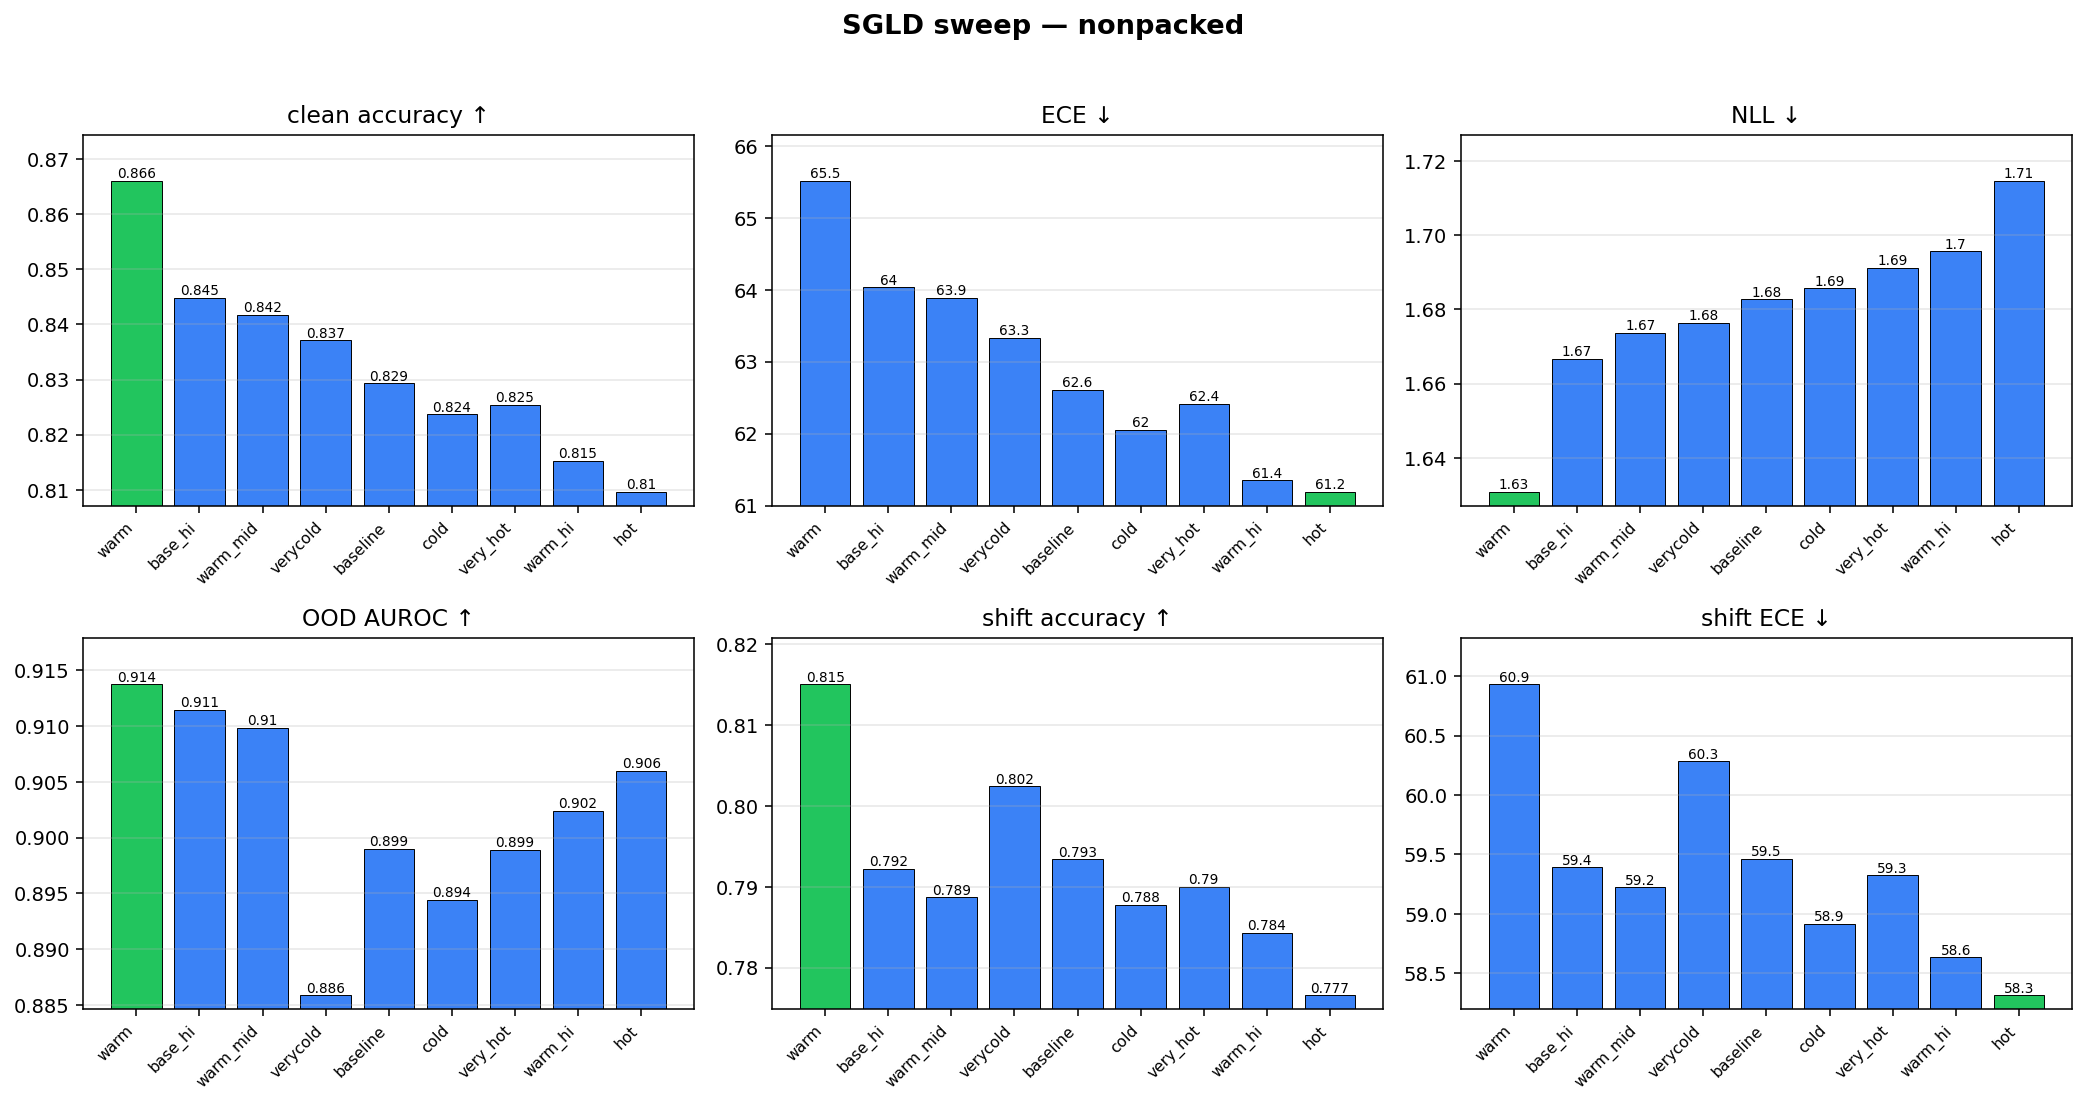
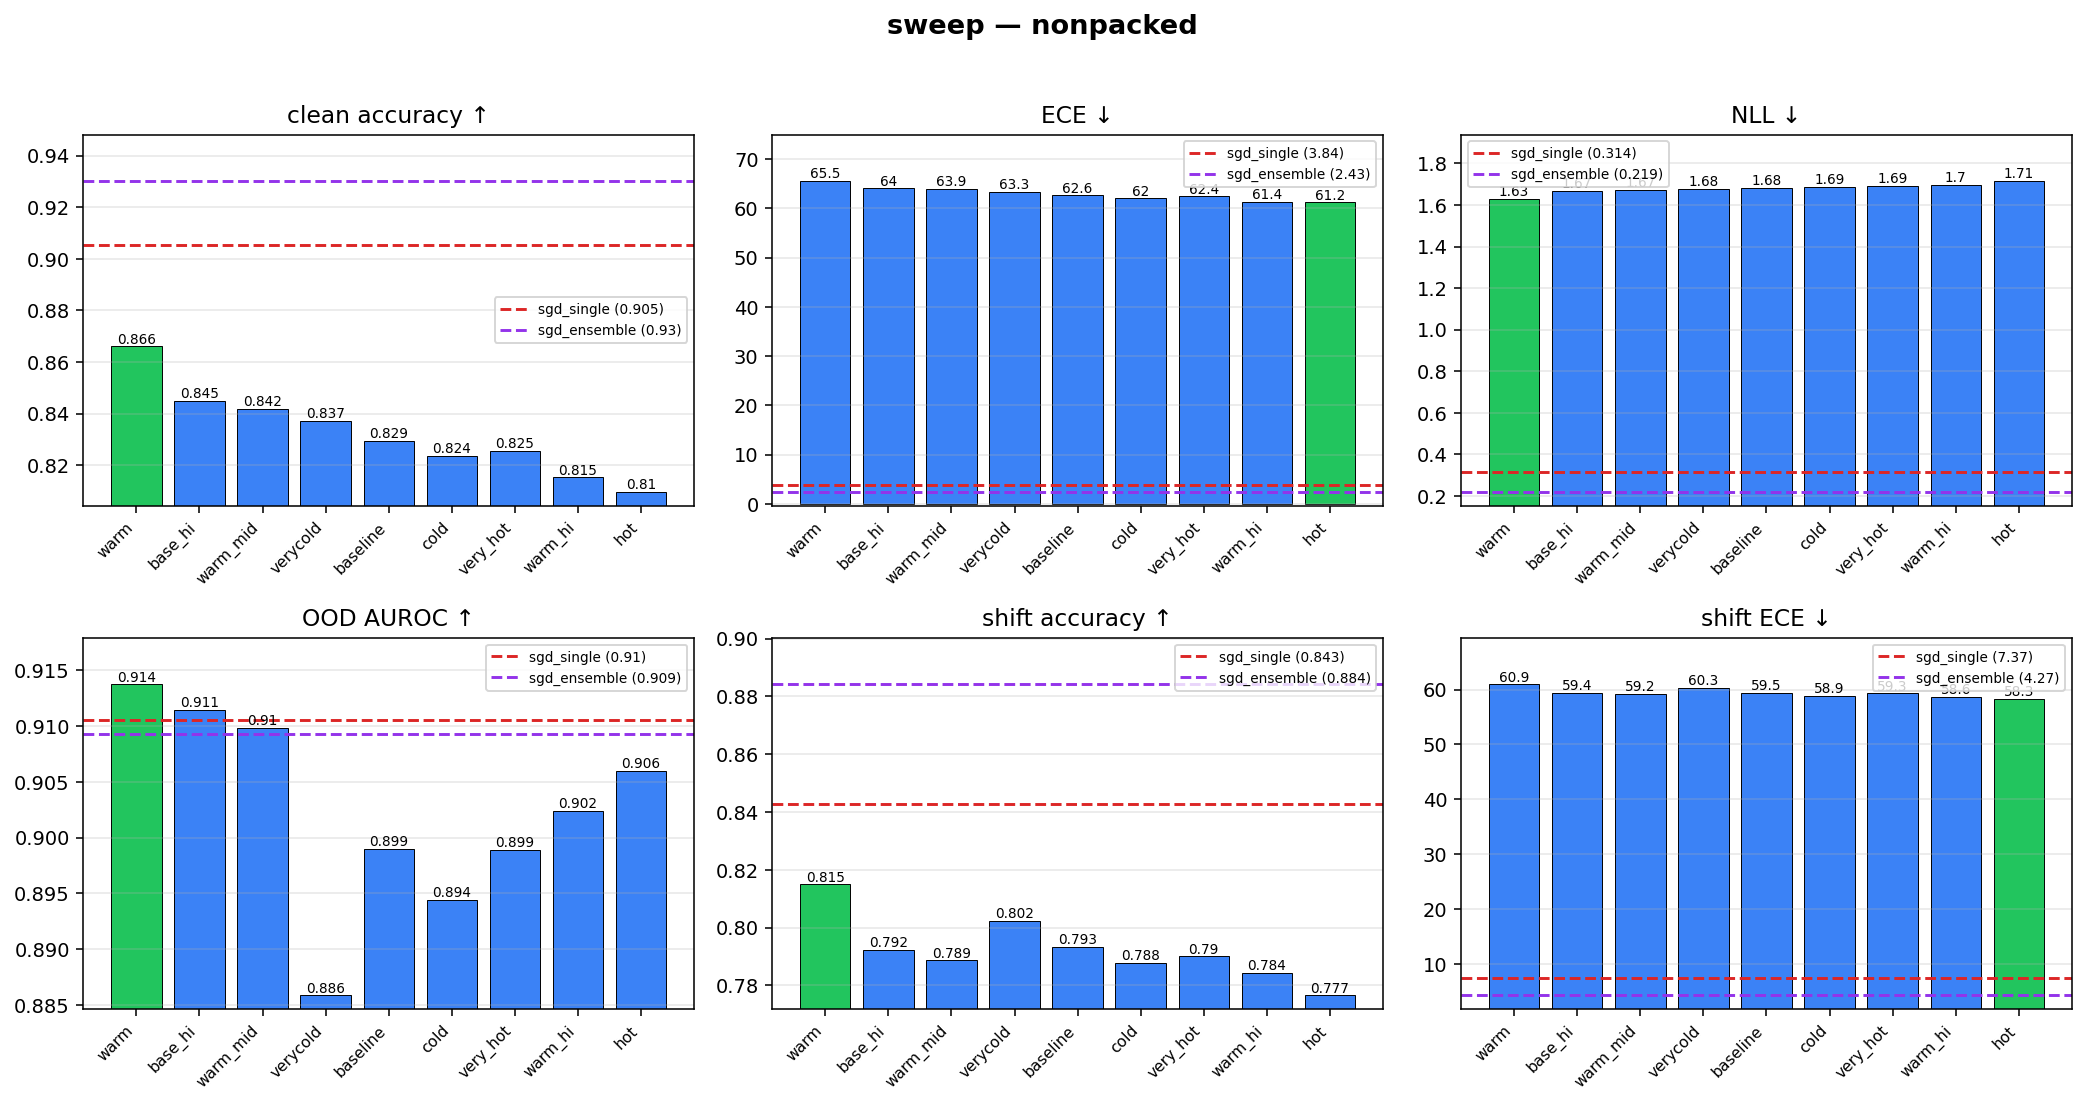
hlksdf

diff --git a/plot_sweep.py b/plot_sweep.py
@@ -36,38 +36,57 @@ def _load(path):
     return df
 
 
-def plot_metric_bars(df, variant, outpath):
+BASELINE_COLORS = ["#dc2626", "#9333ea", "#0891b2"]
+
+
+def _split_baselines(df, variant):
     sub = df[df["variant"] == variant].copy()
-    if sub.empty:
+    is_bl = sub["config"].astype(str).str.startswith("sgd")
+    return sub[~is_bl].copy(), sub[is_bl].copy()
+
+
+def plot_metric_bars(df, variant, outpath):
+    sgld, baselines = _split_baselines(df, variant)
+    if sgld.empty and baselines.empty:
         return
-    # order configs by NLL asc so best-first
-    sub = sub.sort_values("nll", ascending=True).reset_index(drop=True)
+    # order SGLD configs by NLL asc so best-first
+    sgld = sgld.sort_values("nll", ascending=True).reset_index(drop=True)
 
     fig, axes = plt.subplots(2, 3, figsize=(15, 8))
-    fig.suptitle(f"SGLD sweep — {variant}", fontsize=14, fontweight="bold")
+    fig.suptitle(f"sweep — {variant}", fontsize=14, fontweight="bold")
 
     for ax, (col, label, higher_is_better) in zip(axes.flat, METRICS):
-        vals = sub[col].values
-        configs = sub["config"].values
-        best_idx = int(np.argmax(vals) if higher_is_better else np.argmin(vals))
-        colors = ["#3b82f6"] * len(vals)
-        colors[best_idx] = "#22c55e"
+        vals = sgld[col].values
+        configs = sgld["config"].values
+        if len(vals):
+            best_idx = int(np.argmax(vals) if higher_is_better else np.argmin(vals))
+            colors = ["#3b82f6"] * len(vals)
+            colors[best_idx] = "#22c55e"
+            bars = ax.bar(range(len(vals)), vals, color=colors, edgecolor="black", linewidth=0.5)
+            ax.set_xticks(range(len(vals)))
+            ax.set_xticklabels(configs, rotation=45, ha="right", fontsize=8)
+            for bar, v in zip(bars, vals):
+                if np.isfinite(v):
+                    ax.text(bar.get_x() + bar.get_width() / 2, bar.get_height(),
+                            f"{v:.3g}", ha="center", va="bottom", fontsize=7)
 
-        bars = ax.bar(range(len(vals)), vals, color=colors, edgecolor="black", linewidth=0.5)
-        ax.set_xticks(range(len(vals)))
-        ax.set_xticklabels(configs, rotation=45, ha="right", fontsize=8)
+        # dashed horizontal lines for SGD baselines in this variant
+        for i, (_, br) in enumerate(baselines.iterrows()):
+            v = br[col]
+            if np.isfinite(v):
+                c = BASELINE_COLORS[i % len(BASELINE_COLORS)]
+                ax.axhline(v, color=c, linestyle="--", linewidth=1.5,
+                           label=f"{br['config']} ({v:.3g})")
+
         arrow = "↑" if higher_is_better else "↓"
         ax.set_title(f"{label} {arrow}")
         ax.grid(axis="y", alpha=0.3)
+        if len(baselines):
+            ax.legend(fontsize=7, loc="best")
 
-        # annotate values
-        for bar, v in zip(bars, vals):
-            if np.isfinite(v):
-                ax.text(bar.get_x() + bar.get_width() / 2, bar.get_height(),
-                        f"{v:.3g}", ha="center", va="bottom", fontsize=7)
-
-        # ylim so annotations don't clip
-        finite = vals[np.isfinite(vals)]
+        # ylim must include baselines too so lines are visible
+        all_vals = np.concatenate([vals, baselines[col].values]) if len(baselines) else vals
+        finite = all_vals[np.isfinite(all_vals)]
         if len(finite):
             lo, hi = finite.min(), finite.max()
             margin = (hi - lo) * 0.15 or abs(hi) * 0.05 or 1.0
@@ -80,7 +99,8 @@ def plot_metric_bars(df, variant, outpath):
 
 
 def plot_heatmap(df, variant, metric, outpath, higher_is_better=False):
-    sub = df[df["variant"] == variant].copy()
+    sub = df[(df["variant"] == variant) &
+             (~df["config"].astype(str).str.startswith("sgd"))].copy()
     if sub.empty or sub[metric].isna().all():
         return
     pivot = sub.pivot_table(index="temperature", columns="sampling_lr",
@@ -115,15 +135,18 @@ def plot_heatmap(df, variant, metric, outpath, higher_is_better=False):
 
 
 def plot_variant_compare(df, outpath):
-    """Side-by-side bar chart comparing nonpacked vs packed on each metric."""
-    variants = sorted(df["variant"].unique())
+    """Grouped-bar comparison of SGLD nonpacked vs packed, SGD baselines overlaid."""
+    sgld = df[~df["config"].astype(str).str.startswith("sgd")].copy()
+    baselines = df[df["config"].astype(str).str.startswith("sgd")].copy()
+    variants = sorted(sgld["variant"].unique())
     if len(variants) < 2:
         return
-    configs = sorted(df["config"].unique(),
-                     key=lambda c: df.loc[df["config"] == c, "nll"].mean())
+    configs = sorted(sgld["config"].unique(),
+                     key=lambda c: sgld.loc[sgld["config"] == c, "nll"].mean())
 
     fig, axes = plt.subplots(2, 3, figsize=(15, 8))
-    fig.suptitle("nonpacked vs packed", fontsize=14, fontweight="bold")
+    fig.suptitle("SGLD nonpacked vs packed (SGD baselines dashed)",
+                 fontsize=14, fontweight="bold")
 
     width = 0.4
     x = np.arange(len(configs))
@@ -131,17 +154,23 @@ def plot_variant_compare(df, outpath):
 
     for ax, (col, label, higher_is_better) in zip(axes.flat, METRICS):
         for i, v in enumerate(variants):
-            sub = df[df["variant"] == v].set_index("config").reindex(configs)
+            sub = sgld[sgld["variant"] == v].set_index("config").reindex(configs)
             vals = sub[col].values
             offset = (i - (len(variants) - 1) / 2) * width
             ax.bar(x + offset, vals, width, label=v,
                    color=palette.get(v, None), edgecolor="black", linewidth=0.4)
+        for i, (_, br) in enumerate(baselines.iterrows()):
+            v = br[col]
+            if np.isfinite(v):
+                c = BASELINE_COLORS[i % len(BASELINE_COLORS)]
+                ax.axhline(v, color=c, linestyle="--", linewidth=1.3,
+                           label=f"{br['config']} ({v:.3g})")
         ax.set_xticks(x)
         ax.set_xticklabels(configs, rotation=45, ha="right", fontsize=8)
         arrow = "↑" if higher_is_better else "↓"
         ax.set_title(f"{label} {arrow}")
         ax.grid(axis="y", alpha=0.3)
-        ax.legend(fontsize=8)
+        ax.legend(fontsize=7)
 
     plt.tight_layout(rect=[0, 0, 1, 0.96])
     plt.savefig(outpath, dpi=140, bbox_inches="tight")

diff --git a/show_sweep.py b/show_sweep.py
@@ -57,6 +57,10 @@ def format_row(row, col_widths, cols):
     return "  ".join(parts)
 
 
+def is_baseline(row):
+    return str(row.get("config", "")).startswith("sgd")
+
+
 def print_variant(variant, rows, sort_key):
     if not rows:
         return
@@ -68,16 +72,23 @@ def print_variant(variant, rows, sort_key):
         for h, *_ in HPARAMS:
             r[h] = parse_float(r.get(h))
 
+    baselines = [r for r in rows if is_baseline(r)]
+    sgld = [r for r in rows if not is_baseline(r)]
+
     # sort direction: NLL down (lower better) unless overridden
     if sort_key == "acc":
-        rows.sort(key=lambda r: -(r["clean_accuracy"] or -1))
+        key_fn = lambda r: -(r["clean_accuracy"] or -1)
     elif sort_key == "ece":
-        rows.sort(key=lambda r: (r["ECE"] if r["ECE"] is not None else 1e9))
-    else:  # "nll"
-        rows.sort(key=lambda r: (r["nll"] if r["nll"] is not None else 1e9))
+        key_fn = lambda r: (r["ECE"] if r["ECE"] is not None else 1e9)
+    else:
+        key_fn = lambda r: (r["nll"] if r["nll"] is not None else 1e9)
+    sgld.sort(key=key_fn)
+    baselines.sort(key=key_fn)
+    rows = baselines + sgld
 
     print("\n" + "=" * 100)
-    print(f"{variant.upper()}  ({len(rows)} configs, sorted by {sort_key})")
+    print(f"{variant.upper()}  ({len(rows)} rows: {len(baselines)} SGD baseline(s) + "
+          f"{len(sgld)} SGLD configs, sorted by {sort_key})")
     print("=" * 100)
 
     # header
@@ -109,18 +120,35 @@ def print_variant(variant, rows, sort_key):
     header = "  ".join(labels[n].rjust(col_widths[n]) for n, _ in cols)
     print(header)
     print("-" * len(header))
-    for r in rows:
+    for r in baselines:
+        print(format_row(r, col_widths, cols))
+    if baselines and sgld:
+        print("-" * len(header))
+    for r in sgld:
         print(format_row(r, col_widths, cols))
 
-    # best config per metric
-    print("\n  Best per metric:")
-    for m, alias, up, fmt in METRICS:
-        vals = [(r[m], r["config"]) for r in rows if r[m] is not None]
+    # best per metric — SGLD and baselines reported separately
+    def _best(rs, m, up):
+        vals = [(r[m], r["config"]) for r in rs if r[m] is not None]
         if not vals:
-            continue
-        best = max(vals) if up else min(vals)
-        arrow = "↑" if up else "↓"
-        print(f"    {alias+arrow:8s}  {fmt.format(best[0])}   ({best[1]})")
+            return None
+        return max(vals) if up else min(vals)
+
+    if sgld:
+        print("\n  Best SGLD per metric:")
+        for m, alias, up, fmt in METRICS:
+            b = _best(sgld, m, up)
+            if b:
+                arrow = "↑" if up else "↓"
+                print(f"    {alias+arrow:8s}  {fmt.format(b[0])}   ({b[1]})")
+    if baselines:
+        print("\n  SGD baselines:")
+        for r in baselines:
+            cells = []
+            for m, alias, up, fmt in METRICS:
+                if r[m] is not None:
+                    cells.append(f"{alias}={fmt.format(r[m])}")
+            print(f"    {r['config']:14s}  " + "  ".join(cells))
 
 
 def main():

diff --git a/add_sgd_baselines.py b/add_sgd_baselines.py
@@ -1,0 +1,90 @@
+#!/usr/bin/env python3
+"""Append SGD baseline rows to sweep_sgld_results.csv.
+
+Reads three evaluation JSONs produced by run_sgd_eval.sh and appends them
+as rows with empty hyperparameter columns. Idempotent — skips any
+(config, variant) pair that already appears in the CSV.
+"""
+
+import csv
+import json
+import os
+import sys
+
+CSV_PATH = "sweep_sgld_results.csv"
+METRICS_DIR = "experiment_results/table_metrics"
+
+# config name, variant tag, json file
+BASELINES = [
+    ("sgd_single",   "nonpacked", "resnet20_cifar10_sgd.json"),
+    ("sgd_ensemble", "nonpacked", "resnet20_cifar10_sgd_ensemble.json"),
+    ("sgd_packed",   "packed",    "resnet20_cifar10_sgd_packed.json"),
+]
+
+EVAL_METRICS = ["clean_accuracy", "ECE", "nll",
+                "OOD AUROC", "SHIFT ACCURACY", "SHIFT ECE"]
+
+
+def load_metrics(path):
+    with open(path) as f:
+        data = json.load(f)
+    return next(iter(data.values()))
+
+
+def main():
+    if not os.path.exists(CSV_PATH):
+        sys.exit(f"[error] CSV not found: {CSV_PATH}")
+
+    with open(CSV_PATH) as f:
+        rows = list(csv.DictReader(f))
+        fieldnames = rows[0].keys() if rows else []
+
+    if not fieldnames:
+        sys.exit("[error] CSV is empty / has no header")
+
+    existing = {(r["config"], r["variant"]) for r in rows}
+
+    new_rows = []
+    for config, variant, json_name in BASELINES:
+        if (config, variant) in existing:
+            print(f"[skip] already present: {config} / {variant}")
+            continue
+        json_path = os.path.join(METRICS_DIR, json_name)
+        if not os.path.exists(json_path):
+            print(f"[warn] missing eval JSON: {json_path} — did you run run_sgd_eval.sh?")
+            continue
+        m = load_metrics(json_path)
+        row = {k: "" for k in fieldnames}
+        row.update({
+            "trial":        "",
+            "config":       config,
+            "variant":      variant,
+            "seed":         "",
+            "lr":           "",
+            "temperature":  "",
+            "sampling_lr":  "",
+            "val_loss":     "",
+            "samples_file": "",
+        })
+        for metric in EVAL_METRICS:
+            v = m.get(metric)
+            row[metric] = f"{v:.4f}" if isinstance(v, (int, float)) else ""
+        new_rows.append(row)
+        print(f"[add]  {config} / {variant}  "
+              f"acc={m.get('clean_accuracy'):.4f}  "
+              f"ECE={m.get('ECE'):.3f}  NLL={m.get('nll'):.4f}")
+
+    if not new_rows:
+        print("Nothing to add.")
+        return
+
+    with open(CSV_PATH, "a", newline="") as f:
+        writer = csv.DictWriter(f, fieldnames=fieldnames)
+        for r in new_rows:
+            writer.writerow(r)
+
+    print(f"\nAppended {len(new_rows)} baseline row(s) to {CSV_PATH}.")
+
+
+if __name__ == "__main__":
+    main()
